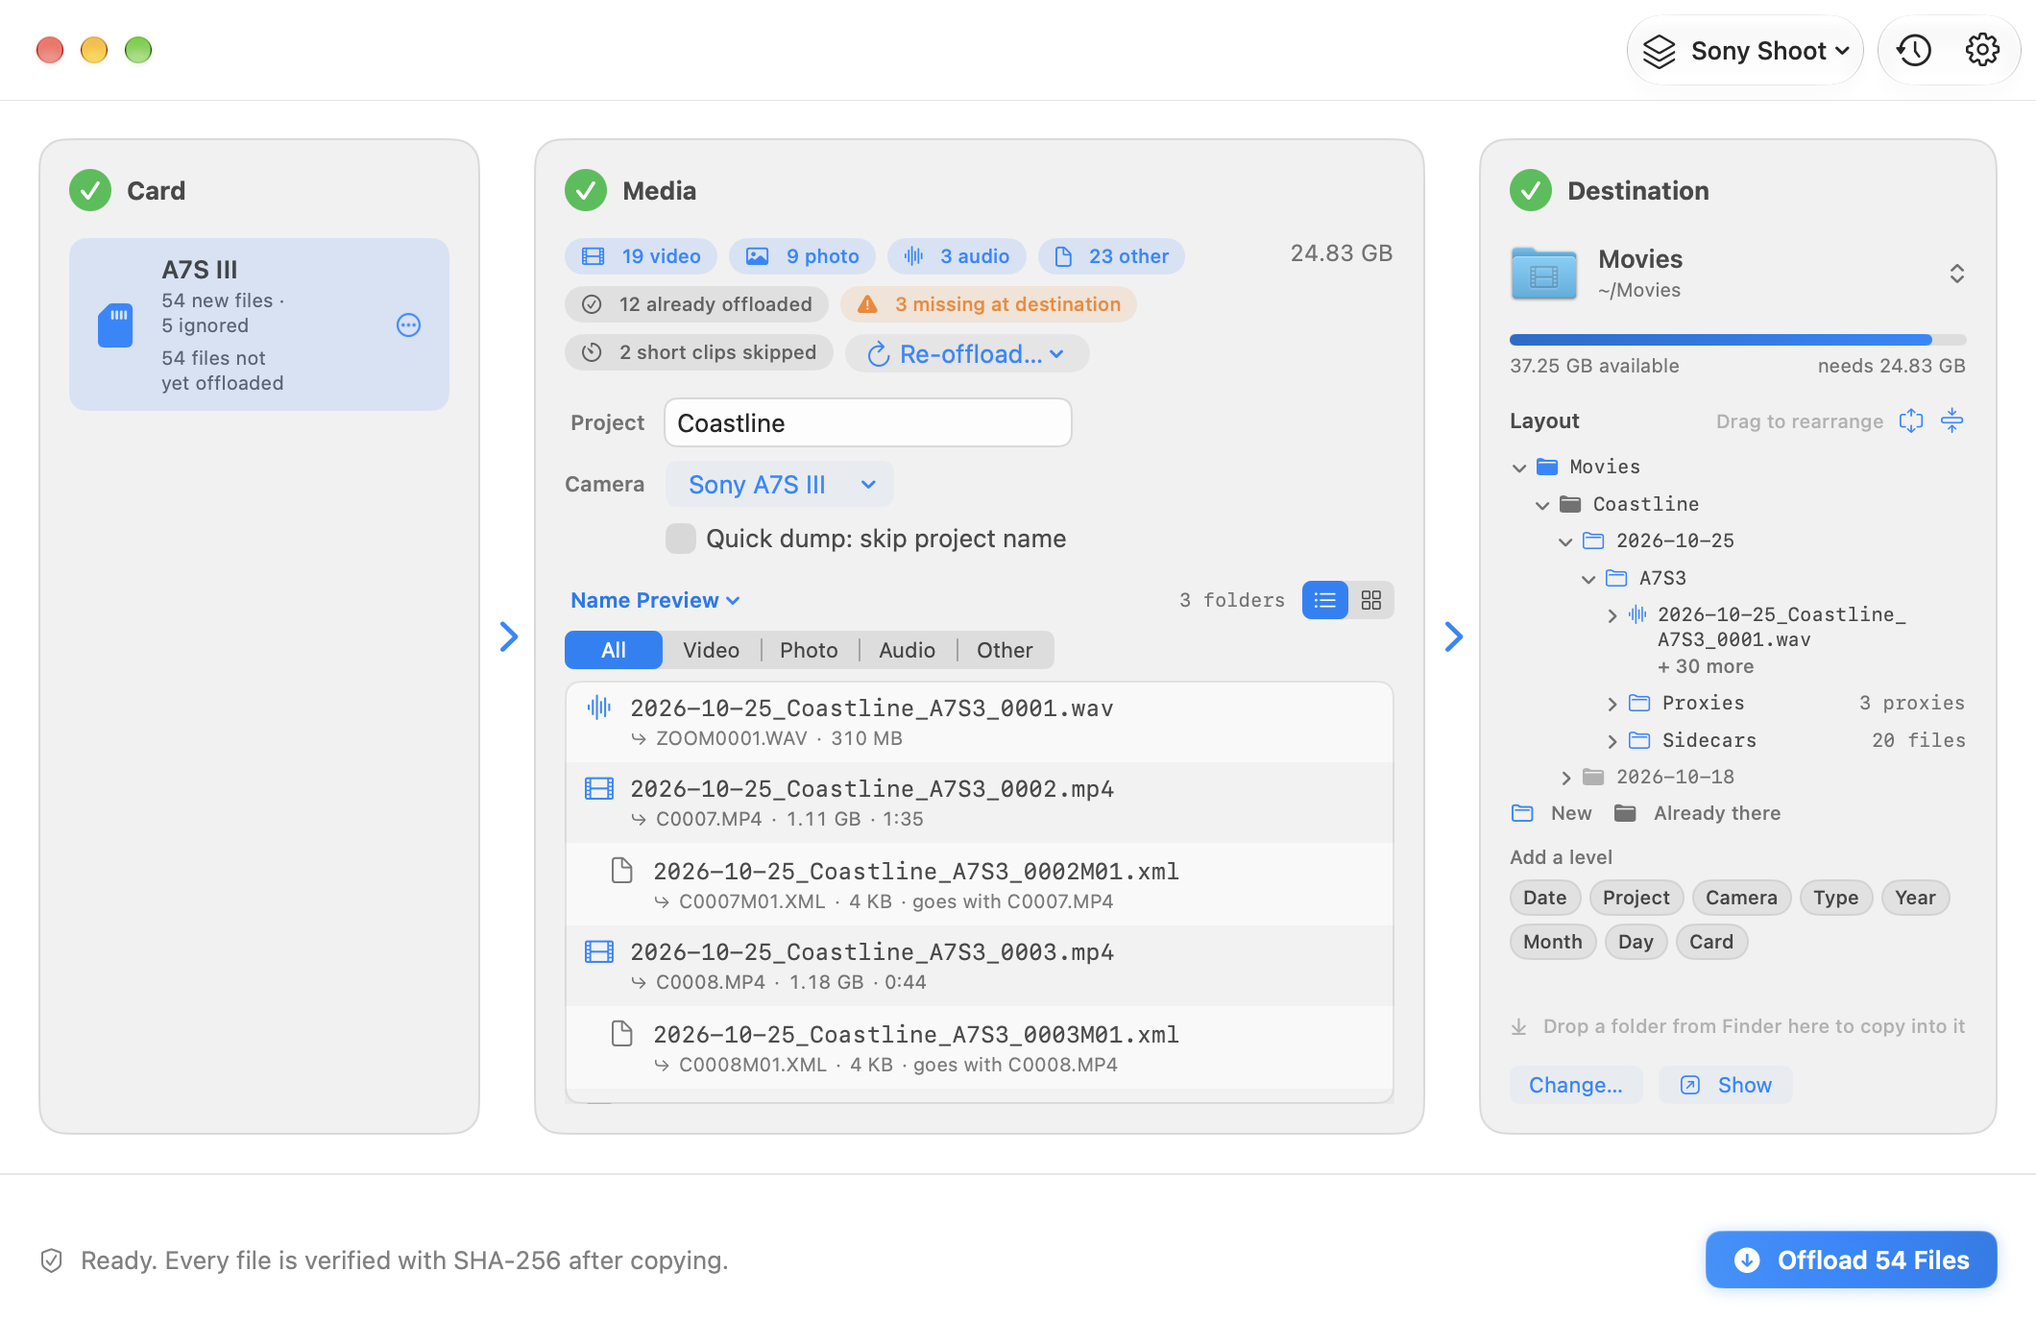
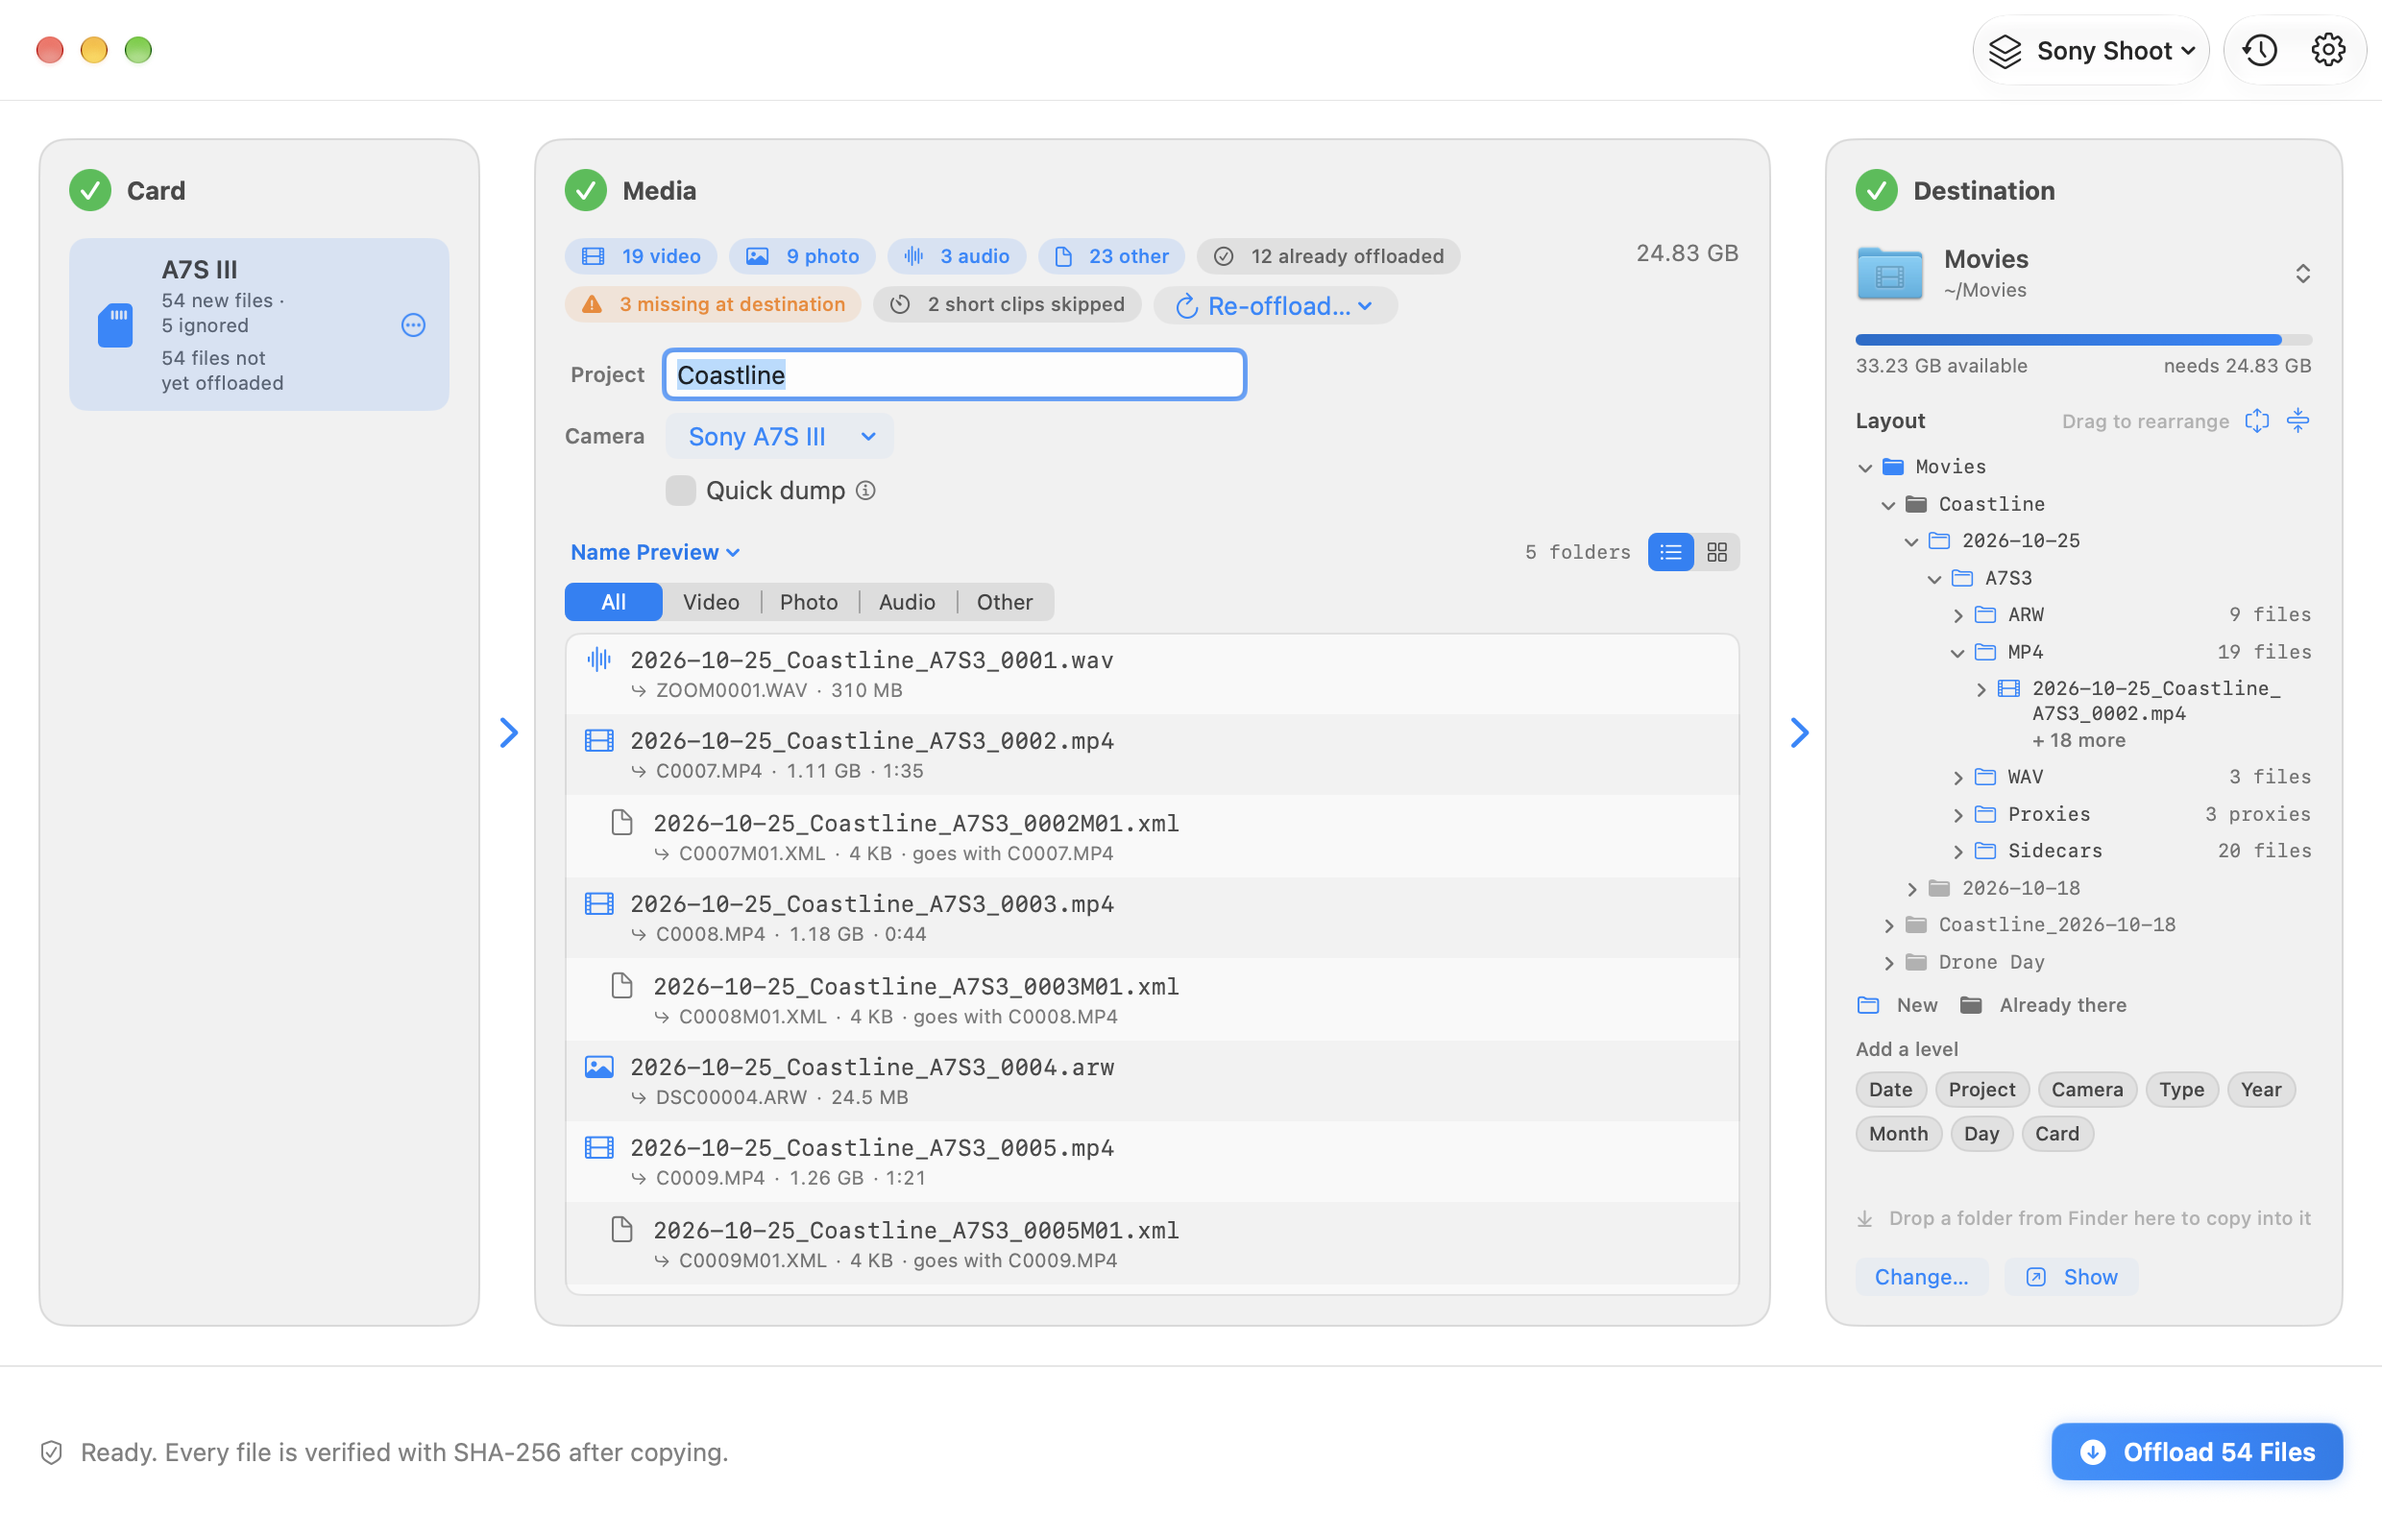
Retake the docs screenshots and add menu bar, hint, tree, About and support shots

diff --git a/README.md b/README.md
@@ -223,6 +223,8 @@ off a card. `{project}` is taken out of both templates cleanly — `{date}/{proj
 `{date}_{project}_{seq}` become `{date}` + `{date}_{seq}` — so there's no project to type.
 Numbering carries on from what's already in the folder.
 
+![The Quick dump hint](Design/screenshots/quickdump-hint-dark.png)
+
 ## Menu bar mode
 
 Turn on **Settings → General → Menu Bar → Keep Lodge running in the menu bar** (off by
@@ -249,6 +251,10 @@ Dock or Spotlight and the window (and the Dock icon) come back.
 
 The icon's menu has **Open Lodge**, **Import from <card>…** for each connected card,
 **Pause Detection** (until Lodge quits), **Settings…** and **Quit Lodge**.
+
+| The menu bar icon's menu | The import prompt (panel, when notifications are off) |
+| --- | --- |
+| ![](Design/screenshots/menubar-menu-dark.png) | ![](Design/screenshots/import-prompt-dark.png) |
 
 ## Settings (⌘,)
 
@@ -366,6 +372,10 @@ later at most; *Support Lodge* or *Don't Ask Again* stops it for good. It's all 
 Lodge's own preferences: no notifications, no network calls, no tracking. The header art is
 in `Design/support-graphic/` (the `SupportHeader` image in the asset catalog).
 Help ▸ Contact Support… emails [bashframes@gmail.com](mailto:bashframes@gmail.com).
+
+| The Support Lodge card | About Lodge |
+| --- | --- |
+| ![](Design/screenshots/support-light.png) | ![](Design/screenshots/about-light.png) |
 
 ## Run it
 
